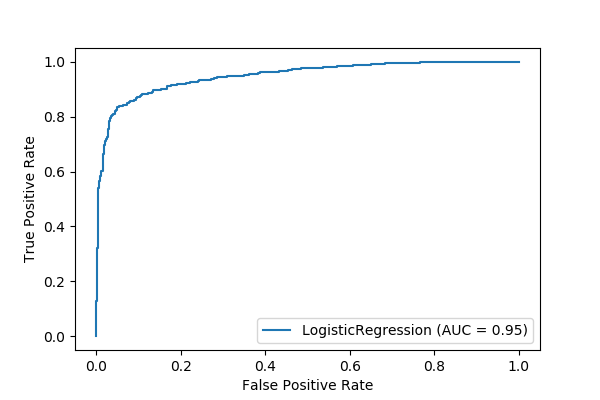
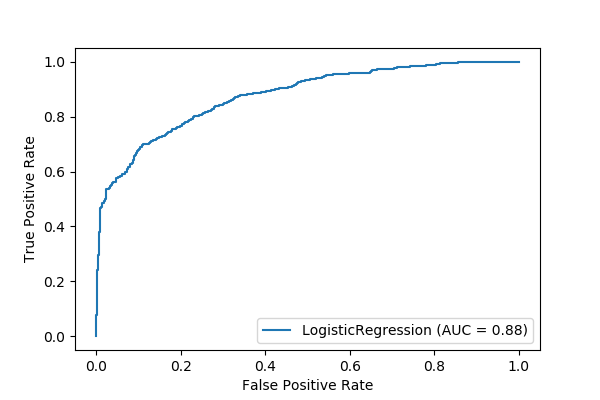
Updating Files

diff --git a/index.html b/index.html
@@ -33,8 +33,8 @@
                 <div class="collapse navbar-collapse" id="navbarResponsive">
                     <ul class="navbar-nav text-uppercase ml-auto">
                         <li class="nav-item"><a class="nav-link js-scroll-trigger" href="/regression.html">Regression Model</a></li>
-                        <li class="nav-item"><a class="nav-link js-scroll-trigger" href="#classification">Classification Model</a></li>
-                        <li class="nav-item"><a class="nav-link js-scroll-trigger" href="#nlp">NLP Model</a></li>
+                        <li class="nav-item"><a class="nav-link js-scroll-trigger" href="classification.html">Classification Model</a></li>
+                        <li class="nav-item"><a class="nav-link js-scroll-trigger" href="nlp.html">NLP Model</a></li>
                         <li class="nav-item"><a class="nav-link js-scroll-trigger" href="#team">Team</a></li>
                         <!-- <li class="nav-item"><a class="nav-link js-scroll-trigger" href="#contact">Contact</a></li> -->
                     </ul>

diff --git a/regression.html b/regression.html
@@ -271,6 +271,7 @@
             <div class="text-center">
                 <h4 class="text-center">Tuning and Evaluating the Model</h4>
                 <p>An 88% percent accuracy score is pretty good but we wanted to see whether we could improve that with some advanced techniques. Using Grid Search Cross Validation, we were able to increase our score from 88% to a whopping 93%!</p>
+                <img src="assets/img/Grid_Search_CV.png" alt="AUC Curve" width="700" height="250" class='center'>
                 </div>
             <div class="text-center">
             <h5 class="text-muted center">Area Under the Curve</h5>
